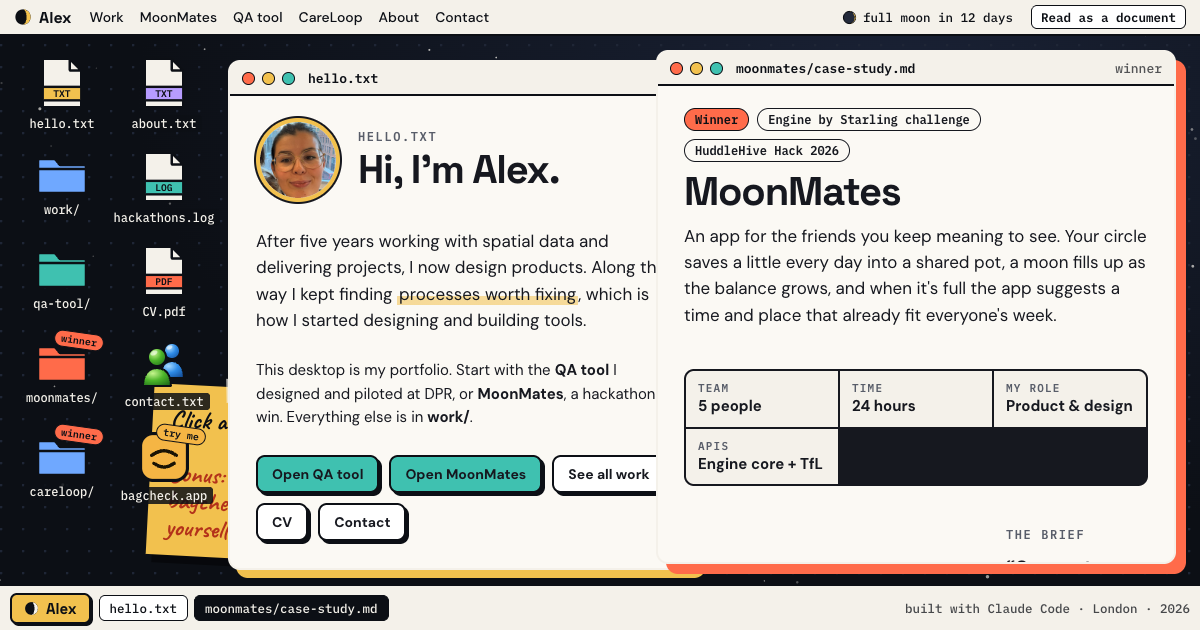
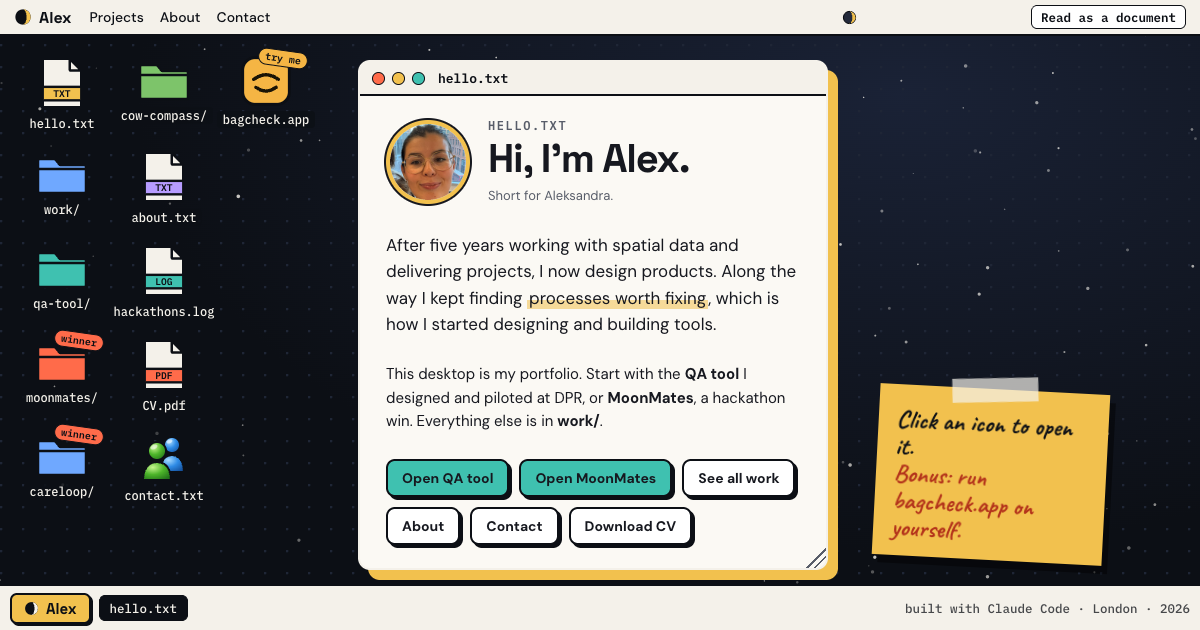
Resize windows from any edge, give each window its own address
Hovering any edge or corner of a window shows a resize arrow, and dragging
resizes it, like a desktop window. The corner grip is gone. An opened
window now gets its own #address, so it can be shared, and Back closes it.
The link preview image shows the current desktop.

diff --git a/site/index.html b/site/index.html
@@ -80,7 +80,7 @@ a{color:inherit}
 
 /* windows */
 .win{--accent:var(--teal);position:absolute;display:flex;flex-direction:column;background:var(--paper2);color:var(--text);border:2px solid var(--paper);border-radius:12px;
-  box-shadow:8px 8px 0 var(--accent);overflow:hidden;max-width:calc(100% - 20px)}
+  box-shadow:8px 8px 0 var(--accent);overflow:visible;max-width:calc(100% - 20px)}
 .win.focus{box-shadow:10px 10px 0 var(--accent)}
 .win .bar{flex:none;height:34px;display:flex;align-items:center;gap:7px;padding:0 12px;background:var(--paper);border-bottom:2px solid var(--ink);font:600 13px var(--mono);color:var(--ink);cursor:grab;user-select:none;touch-action:none}
 .win .bar:active{cursor:grabbing}
@@ -90,9 +90,17 @@ a{color:inherit}
 .win .body{flex:1;overflow:auto;padding:22px 26px 28px;overscroll-behavior:contain}
 .win.dark .body{background:var(--screen);color:var(--paper)}
 .win.max{left:var(--maxL,8px)!important;top:8px!important;width:calc(100% - var(--maxL,8px) - 18px)!important;height:calc(100% - 26px)!important;max-width:none;max-height:none!important}
-.win .grip{position:absolute;right:0;bottom:0;width:20px;height:20px;z-index:3;cursor:nwse-resize;touch-action:none;background:linear-gradient(135deg,transparent 0 50%,var(--sub) 50% 57%,transparent 57% 68%,var(--sub) 68% 75%,transparent 75%)}
-.win.dark .grip{background:linear-gradient(135deg,transparent 0 50%,var(--muted) 50% 57%,transparent 57% 68%,var(--muted) 68% 75%,transparent 75%)}
-.win.max .grip{display:none}
+.win>.bar{border-radius:10px 10px 0 0}
+.win>.body{border-radius:0 0 10px 10px}
+.win .rz{position:absolute;z-index:3;touch-action:none}
+.win .rz.n{top:-7px;left:10px;right:10px;height:10px;cursor:ns-resize}
+.win .rz.s{bottom:-7px;left:10px;right:10px;height:10px;cursor:ns-resize}
+.win .rz.e{right:-7px;top:10px;bottom:10px;width:10px;cursor:ew-resize}
+.win .rz.w{left:-7px;top:10px;bottom:10px;width:10px;cursor:ew-resize}
+.win .rz.ne,.win .rz.nw,.win .rz.se,.win .rz.sw{width:17px;height:17px}
+.win .rz.ne{top:-7px;right:-7px;cursor:nesw-resize}.win .rz.sw{bottom:-7px;left:-7px;cursor:nesw-resize}
+.win .rz.nw{top:-7px;left:-7px;cursor:nwse-resize}.win .rz.se{bottom:-7px;right:-7px;cursor:nwse-resize}
+.win.max .rz{display:none}
 .win.resizing,.win.resizing *{user-select:none;-webkit-user-select:none}
 .win .bar button.dot{position:relative}
 .win .bar:hover button.dot::after,.win .bar button.dot:focus-visible::after{content:attr(data-g);position:absolute;inset:0;display:grid;place-items:center;font:700 10px/1 var(--mono);color:var(--ink)}
@@ -1192,13 +1200,14 @@ function bodyFor(id){
   if(d.tpl)wrap.appendChild(document.getElementById(d.tpl).content.cloneNode(true));else wrap.innerHTML=projectBody(d.project);
   fill(id,wrap);return wrap;
 }
+const RZ=['n','s','e','w','ne','nw','se','sw'].map(d=>'<span class="rz '+d+'" data-rz="'+d+'" aria-hidden="true"></span>').join('');
 function makeWin(id,docMode){
   const d=WINS[id];const w=document.createElement('section');
   w.className='win'+(d.dark?' dark':'');w.dataset.id=id;w.id=docMode?id:'win-'+id;w.style.setProperty('--accent',d.accent);
   w.setAttribute('aria-label',d.title);
   w.innerHTML=`<div class="bar">${docMode?'<i class="dot" style="background:var(--coral)"></i><i class="dot" style="background:var(--gold)"></i><i class="dot" style="background:var(--teal)"></i>':
     `<button class="dot" data-act="close" data-g="×" title="Close" aria-label="Close ${esc(d.title)}" style="background:var(--coral)"></button><button class="dot" data-act="min" data-g="−" title="Minimise" aria-label="Minimise" style="background:var(--gold)"></button><button class="dot" data-act="max" data-g="+" title="Maximise" aria-label="Maximise" style="background:var(--teal)"></button>`}
-    <span class="ttl">${esc(d.title)}</span>${d.right?`<span class="r">${esc(d.right)}</span>`:''}</div><div class="body"></div>${docMode?'':'<span class="grip" title="Drag to resize" aria-hidden="true"></span>'}`;
+    <span class="ttl">${esc(d.title)}</span>${d.right?`<span class="r">${esc(d.right)}</span>`:''}</div><div class="body"></div>${docMode?'':RZ}`;
   w.querySelector('.body').appendChild(bodyFor(id));return w;
 }
 
@@ -1223,7 +1232,7 @@ function focusWin(id){Object.values(open).forEach(o=>o.el.classList.remove('focu
 function openWin(id){
   if(!WINS[id])return;
   if(document.body.classList.contains('docmode')){if(id==='contact'){goTo(document.querySelector('#doc .about-contact')||'about');return}goTo(document.getElementById(id)?id:'work');return}
-  if(!open[id]){const el=makeWin(id,false);place(id,el);desk.appendChild(el);open[id]={el,min:false};wire(el,id)}
+  if(!open[id]){const el=makeWin(id,false);place(id,el);desk.appendChild(el);open[id]={el,min:false};wire(el,id);pushWin(id)}
   const o=open[id];o.el.hidden=false;o.min=false;focusWin(id);
 }
 /* in document mode, jump straight to a window and correct the position while lazy images above it load */
@@ -1231,25 +1240,39 @@ function goTo(id){const t=typeof id==='string'?document.getElementById(id):id;if
   let n=0,stop=false;const quit=()=>{stop=true};addEventListener('touchstart',quit,{once:true,passive:true});addEventListener('wheel',quit,{once:true,passive:true});
   const fix=()=>{if(stop)return;const off=t.getBoundingClientRect().top-(parseFloat(getComputedStyle(t).scrollMarginTop)||0);if(Math.abs(off)>4)t.scrollIntoView({block:'start'});if(++n<8)setTimeout(fix,250)};setTimeout(fix,250)}
 function closeWin(id){const o=open[id];if(!o)return;o.el.remove();delete open[id];renderTabs()}
+/* an opened window gets its own address (#id), so it can be shared, and Back closes it */
+let curHash=location.hash.slice(1);
+function pushWin(id){if(id==='hello'||location.hash==='#'+id)return;try{history.pushState({win:id},'','#'+id);curHash=id}catch(_){}}
+function closeByUser(id){if(location.hash==='#'+id){if(history.state&&history.state.win===id){history.back();return}try{history.replaceState(null,'',location.pathname+location.search)}catch(_){}curHash=''}closeWin(id)}
+function syncHash(){const id=location.hash.slice(1);if(id===curHash)return;const prev=curHash;curHash=id;
+  if(!document.body.classList.contains('docmode')&&prev&&prev!=='hello'&&open[prev])closeWin(prev);
+  if(WINS[id])openWin(id)}
 function renderTabs(active){tabs.innerHTML=Object.keys(open).map(id=>`<button class="tab${open[id].min?' min':''}${id===active?' on':''}" data-tab="${id}">${esc(WINS[id].title)}</button>`).join('')}
 function wire(el,id){
   el.addEventListener('pointerdown',()=>focusWin(id));
   el.querySelectorAll('[data-act]').forEach(b=>b.addEventListener('click',e=>{e.stopPropagation();const a=b.dataset.act;
-    if(a==='close')closeWin(id);if(a==='min'){open[id].min=true;el.hidden=true;renderTabs()}if(a==='max')el.classList.toggle('max')}));
+    if(a==='close')closeByUser(id);if(a==='min'){open[id].min=true;el.hidden=true;renderTabs()}if(a==='max')el.classList.toggle('max')}));
   const bar=el.querySelector('.bar');let sx,sy,ox,oy,drag=false;
   bar.addEventListener('pointerdown',e=>{if(e.target.closest('[data-act]')||el.classList.contains('max'))return;drag=true;sx=e.clientX;sy=e.clientY;ox=el.offsetLeft;oy=el.offsetTop;bar.setPointerCapture(e.pointerId)});
   bar.addEventListener('pointermove',e=>{if(!drag)return;const{W,H}=deskSize();
     el.style.left=Math.max(-el.offsetWidth+120,Math.min(W-80,ox+e.clientX-sx))+'px';el.style.top=Math.max(0,Math.min(H-40,oy+e.clientY-sy))+'px'});
   bar.addEventListener('pointerup',()=>{drag=false});
   bar.addEventListener('dblclick',e=>{if(!e.target.closest('[data-act]'))el.classList.toggle('max')});
-  const grip=el.querySelector('.grip');if(!grip)return;let rs=null;
-  grip.addEventListener('pointerdown',e=>{if(el.classList.contains('max'))return;e.preventDefault();e.stopPropagation();focusWin(id);
-    rs={x:e.clientX,y:e.clientY,w:el.offsetWidth,h:el.offsetHeight};el.classList.add('resizing');grip.setPointerCapture(e.pointerId)});
-  grip.addEventListener('pointermove',e=>{if(!rs)return;const{W,H}=deskSize();
-    el.style.width=Math.max(320,Math.min(W-el.offsetLeft-8,rs.w+e.clientX-rs.x))+'px';
-    el.style.height=Math.max(180,Math.min(H-el.offsetTop-8,rs.h+e.clientY-rs.y))+'px';el.style.maxHeight='none'});
-  const endResize=()=>{rs=null;el.classList.remove('resizing')};grip.addEventListener('pointerup',endResize);grip.addEventListener('pointercancel',endResize);
-  grip.addEventListener('dblclick',()=>el.classList.toggle('max'));
+  /* resize from any edge or corner, like a desktop window */
+  let rs=null;
+  el.querySelectorAll('[data-rz]').forEach(hd=>{
+    hd.addEventListener('pointerdown',e=>{if(el.classList.contains('max')||e.button!==0)return;e.preventDefault();e.stopPropagation();focusWin(id);
+      rs={d:hd.dataset.rz,x:e.clientX,y:e.clientY,l:el.offsetLeft,t:el.offsetTop,w:el.offsetWidth,h:el.offsetHeight};el.classList.add('resizing');hd.setPointerCapture(e.pointerId)});
+    hd.addEventListener('pointermove',e=>{if(!rs)return;const{W,H}=deskSize();const dx=e.clientX-rs.x,dy=e.clientY-rs.y,MW=320,MH=180;
+      let l=rs.l,t=rs.t,w=rs.w,h=rs.h;
+      if(rs.d.includes('e'))w=Math.max(MW,Math.min(W-l-8,rs.w+dx));
+      if(rs.d.includes('s'))h=Math.max(MH,Math.min(H-t-8,rs.h+dy));
+      if(rs.d.includes('w')){l=Math.max(0,Math.min(rs.l+rs.w-MW,rs.l+dx));w=rs.w+rs.l-l}
+      if(rs.d.includes('n')){t=Math.max(0,Math.min(rs.t+rs.h-MH,rs.t+dy));h=rs.h+rs.t-t}
+      el.style.left=l+'px';el.style.top=t+'px';el.style.width=w+'px';el.style.height=h+'px';el.style.maxHeight='none'});
+    const end=()=>{rs=null;el.classList.remove('resizing')};hd.addEventListener('pointerup',end);hd.addEventListener('pointercancel',end);
+    hd.addEventListener('dblclick',()=>el.classList.toggle('max'));
+  });
 }
 tabs.addEventListener('click',e=>{const t=e.target.closest('[data-tab]');if(!t)return;const id=t.dataset.tab;const o=open[id];
   if(o.min||!o.el.classList.contains('focus'))openWin(id);else{o.min=true;o.el.hidden=true;renderTabs()}});
@@ -1258,7 +1281,7 @@ const lb=$('#lb');
 function closeLb(){lb.hidden=true;lb.querySelector('img').removeAttribute('src')}
 document.addEventListener('click',e=>{const im=e.target.closest('img.zoom');if(im){lb.querySelector('img').src=im.src;lb.querySelector('img').alt=im.alt;lb.hidden=false;$('#lbClose').focus();return}
   if(!lb.hidden&&(e.target===lb||e.target.id==='lbClose'))closeLb()});
-document.addEventListener('keydown',e=>{if(e.key==='Escape'&&!lb.hidden){closeLb();return}if(e.key==='Escape'&&!document.body.classList.contains('docmode')){const top=Object.entries(open).filter(([,o])=>!o.el.hidden).sort((a,b)=>b[1].el.style.zIndex-a[1].el.style.zIndex)[0];if(top)closeWin(top[0])}});
+document.addEventListener('keydown',e=>{if(e.key==='Escape'&&!lb.hidden){closeLb();return}if(e.key==='Escape'&&!document.body.classList.contains('docmode')){const top=Object.entries(open).filter(([,o])=>!o.el.hidden).sort((a,b)=>b[1].el.style.zIndex-a[1].el.style.zIndex)[0];if(top)closeByUser(top[0])}});
 
 /* desktop icons */
 const ICON_SYM={hello:['TXT','#F2C14E'],work:['DIR','#6FA8FF'],moonmates:['DIR','#FF6B4A'],'qa-tool':['DIR','#3FC1B0'],careloop:['DIR','#6FA8FF'],'cow-compass':['DIR','#7DC46A'],about:['TXT','#B79CFF'],hackathons:['LOG','#3FC1B0'],cv:['PDF','#FF6B4A'],contact:['MSN','#3FC1B0'],bagcheck:['APP','#F5B544']};
@@ -1329,7 +1352,7 @@ function setMenu(on){mnav.hidden=!on;mscrim.hidden=!on;mbtn.setAttribute('aria-e
 mbtn.addEventListener('click',()=>setMenu(mnav.hidden));
 curTab.addEventListener('click',()=>setMenu(mnav.hidden));
 mscrim.addEventListener('click',()=>setMenu(false));
-mnav.addEventListener('click',e=>{const a=e.target.closest('[data-go]');if(!a)return;e.preventDefault();setMenu(false);openWin(a.dataset.go);try{history.replaceState(null,'','#'+a.dataset.go)}catch(_){}});
+mnav.addEventListener('click',e=>{const a=e.target.closest('[data-go]');if(!a)return;e.preventDefault();setMenu(false);openWin(a.dataset.go);try{history.replaceState(null,'','#'+a.dataset.go);curHash=a.dataset.go}catch(_){}});
 addEventListener('keydown',e=>{if(e.key==='Escape'&&!mnav.hidden){setMenu(false);mbtn.focus()}});
 let spyQ=false;
 function spy(){spyQ=false;if(!document.body.classList.contains('docmode'))return;let cur=DOC_ORDER[0];
@@ -1360,6 +1383,6 @@ if(!document.body.classList.contains('docmode')){openWin('hello');placeSticky();
 else if(start)setTimeout(()=>openWin(start),50);
 addEventListener('resize',()=>{if(!document.body.classList.contains('docmode')){leftEdge();placeSticky()}});
 let wasNarrow=innerWidth<=760;addEventListener('resize',()=>{const n=innerWidth<=760;if(n!==wasNarrow){wasNarrow=n;let m='desk';try{m=localStorage.getItem('alex-mode')||'desk'}catch(e){}setMode(m);if(!n&&!Object.keys(open).length){openWin('hello')}}});
-addEventListener('hashchange',()=>{const id=location.hash.slice(1);if(WINS[id])openWin(id)});
+addEventListener('popstate',syncHash);addEventListener('hashchange',syncHash);
 })();
 </script>
